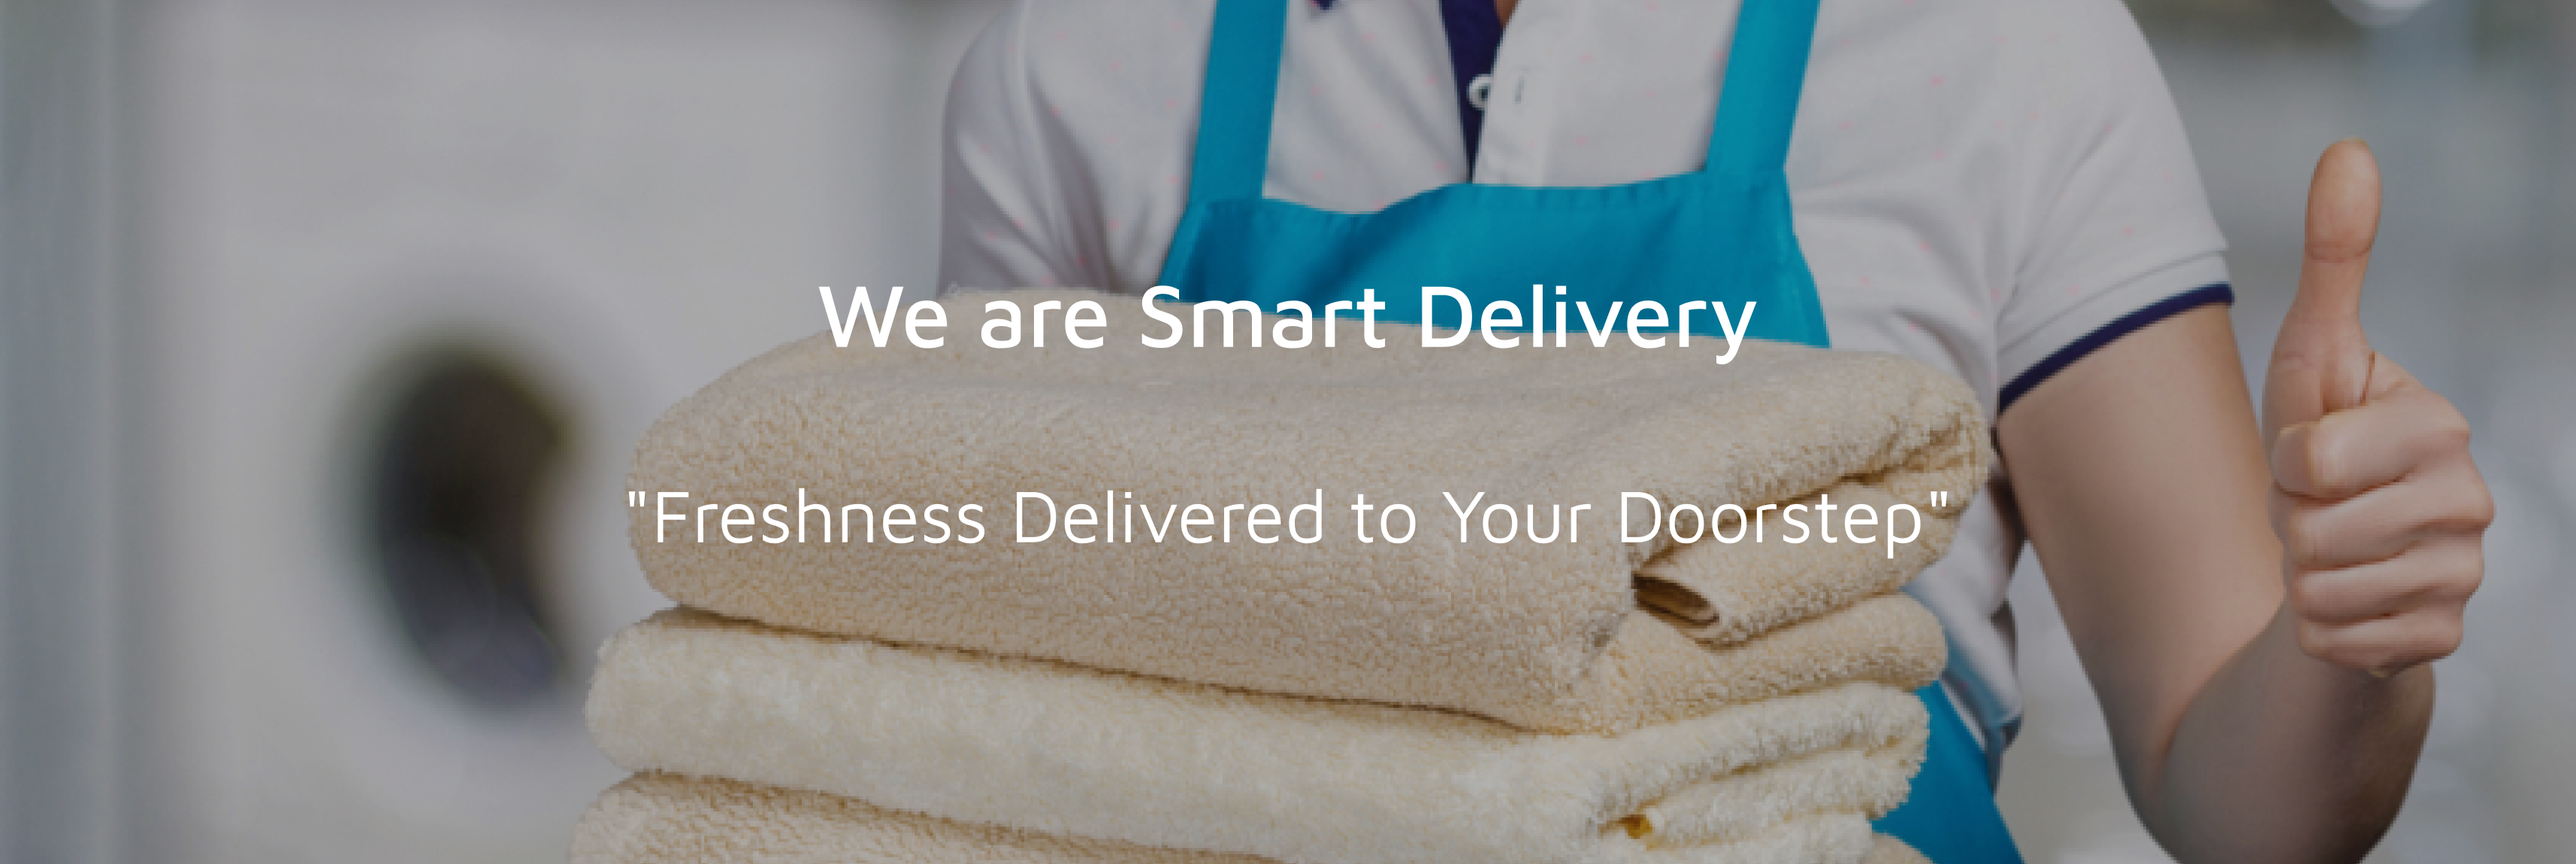
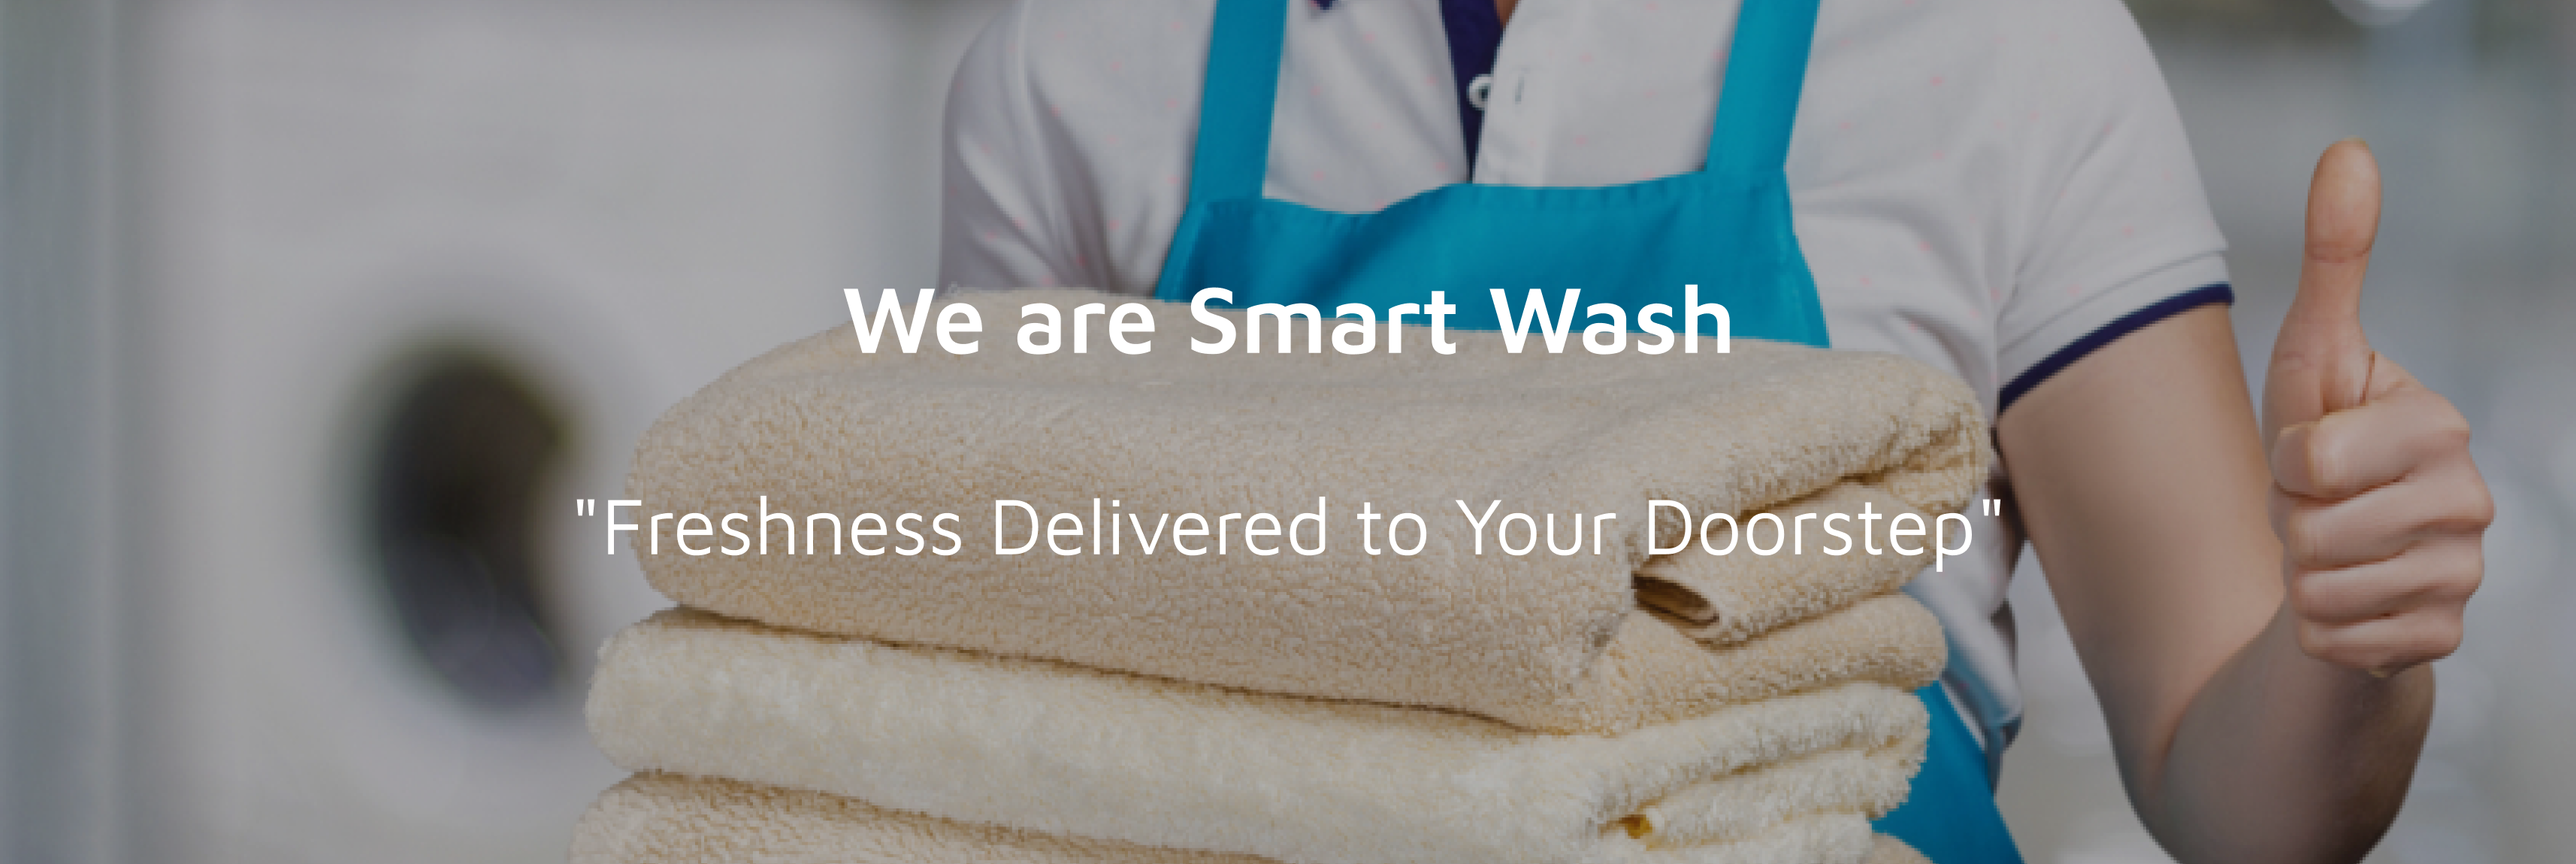
finished ProfileInfo

Changed region(s): [[0.3121, 0.3348, 0.6867, 0.4261], [0.2185, 0.5783, 0.7803, 0.6391]]

diff --git a/finals-project/src/Pages/ProfileInfo.jsx b/finals-project/src/Pages/ProfileInfo.jsx
@@ -1,0 +1,70 @@
+import './ProfileInfo.css'
+import Head from '../Images/user.png'
+import LG from '../Images/logout.png'
+import Plus from '../Images/plus.png'
+import Minus from '../Images/minus.png'
+
+export default function ProfileInfo(){
+
+    return(
+        <>
+        <div className = "PIBody">
+            <div className = "sidebar">
+                <img src ={Head} style={{height:'60px', marginLeft: '35%', marginTop: '20%'}}/>
+                <h2 style ={{color: 'white',marginLeft: '25%', fontSize: '20px', marginTop: '10px'}}>My Account</h2>
+                    <div className = "PIBLink" style ={{marginTop: '50px'}}>
+                        <ul>
+                        <li><a href = "#" >Profile Information </a></li>
+                        <li><a href = "#" >Order History</a></li>
+                        <li><a href = "#" >Order Tracking </a></li>
+                        <li><a href = "#" >Settings </a></li>
+                        </ul>
+                    </div>
+                <br/>
+                <br/>
+                <br/>
+                <br/>
+                <br/>
+                <br/>
+
+                <br/>
+                <a href = "#" className ="LG" style ={{textDecoration: 'none',color: 'white',fontSize:'20px',fontWeight: 'bold',marginLeft:'55px'}}>LOGOUT <img src = {LG} style = {{height: '20px',marginTop:'-3px'}}/> </a>
+            </div>
+            <div className = "mainB">
+                <div className ="mainB1" style={{ display: 'flex', gap: '98px',marginLeft: '65px', marginTop: '50px'}}>
+                <div class="mb-3" style={{width: '300px'}}>
+                    <label for="exampleFormControlInput1" class="form-label">Full Name</label>
+                    <input type="email" class="form-control" id="exampleFormControlInput1" placeholder="Name of User" style ={{border: '2px solid black'}}/>
+                </div>
+                <div class="mb-3" style={{width: '300px'}}>
+                    <label for="exampleFormControlInput1" class="form-label">Email</label>
+                    <input type="email" class="form-control" id="exampleFormControlInput1" placeholder="Email of User" style ={{border: '2px solid black'}}/>
+                </div>
+                </div>
+                <div className ="mainB2" style={{ display: 'flex', gap: '98px',marginLeft: '65px', marginTop: '50px'}}>
+                <div class="mb-3" style={{width: '300px'}}>
+                    <label for="exampleFormControlInput1" class="form-label">Contact Number</label>
+                    <input type="email" class="form-control" id="exampleFormControlInput1" placeholder="+63 123-4567-890" style ={{border: '2px solid black'}}/>
+                </div>
+                <div class="mb-3" style={{width: '300px'}}>
+                    <label for="exampleFormControlInput1" class="form-label">Date of Birth</label>
+                    <input type="email" class="form-control" id="exampleFormControlInput1" placeholder="DOB" style ={{border: '2px solid black'}}/>
+                </div>
+                </div>
+
+                <div className = "mainB3" style={{marginTop: '20px', marginLeft: '65px'}}>
+                    <h2 style= {{fontSize: '30px',fontWeight:'600'}}>Saved Addresses</h2>
+                    <div class="mb-3" style={{width: '700px'}}>
+                    <label for="exampleFormControlInput1" class="form-label">Default Address</label>
+                    <input type="email" class="form-control" id="exampleFormControlInput1" placeholder="Saved addresses" style ={{border: '2px solid black'}}/>
+                    </div>
+                    <div class="mb-3" style={{width: '700px'}}>
+                    <label for="exampleFormControlInput1" class="form-label">Add Another Address <button className="imageButton"><img src={Plus} style={{ height: '25px' }} alt="Plus Icon" /></button><button className="imageButton"><img src={Minus} style={{ height: '25px' }} alt="Minus Icon" /></button></label>
+                    <input type="email" class="form-control" id="exampleFormControlInput1" placeholder="Saved addresses" style ={{border: '2px solid black'}}/>
+                    </div>
+                </div>
+            </div>
+        </div>
+        </>
+    )
+}

diff --git a/finals-project/src/Pages/About.jsx b/finals-project/src/Pages/About.jsx
@@ -9,17 +9,18 @@ import './About.css'
 import AU2 from '../Images/About us 2.jpg'
 import AU4 from '../Images/About us 4.jpg'
 import AU5 from '../Images/About us 5.jpg'
- 
+import justine from '../Images/Justine.jpg'
+import francis from '../Images/aliser.jpg'
 
 export default function About(){
 
     return(
         <>
             <Navbar/>
-            <div className="first">
-                {/* <h1>We are Smart Delivery</h1>
+            <div className="firstA">
+                <h1>We are Smart Wash</h1>
                
-                <h2>"Freshness Delivered to Your Doorstep"</h2> */}
+                <h2>"Freshness Delivered to Your Doorstep"</h2>
             </div>
             <div className = "Second">
                 <AboutBody/>
@@ -48,11 +49,18 @@ export default function About(){
             <div className="fourth">
                 <div class="row featurette" style={{marginLeft:'50px'}}>
                     <div class="col-md-7 order-md-2">
-                        <h2 class="featurette-heading fw-normal lh-1" style ={{textAlign: 'left',color: 'black',fontWeight: 'bolder', fontSize: '50px', marginTop: '50px'}}>Who We Are?</h2>
+                        <h2 class="featurette-heading fw-normal lh-1" style ={{textAlign: 'left',color: 'black',fontWeight: 'bolder', fontSize: '50px', marginTop: '50px'}}>Who Are We?</h2>
                         <p class="lead" style = {{fontSize: '25px', textAlign: 'left', width:'90%'}}>At Smart Delivery, we take pride in being a group of enthusiastic students who have come together to redefine the laundry delivery experience. Our team comprises bright minds from various disciplines, united by a common goal – providing you with unparalleled laundry care.</p>
                     </div>
                     <div class="col-md-5 order-md-1">
-                        <img class="bd-placeholder-img bd-placeholder-img-lg featurette-image img-fluid mx-auto" src={AU2} alt="500x500 Image" style = {{marginTop: '75px', height: '500px',width:'1200px', marginRight: '100px'}}/>
+                        <div class="image-container" style ={{marginTop: '40px'}}>
+                            <img src={justine} style={{height: '250px'}} />
+                            <img src={francis} style={{height: '250px'}} />
+                        </div>
+                        <div class="image-container" style ={{marginTop: '30px'}}>
+                            <img src={justine} style={{height: '250px'}} />
+                            <img src={francis} style={{height: '250px'}} />
+                        </div>
                     </div>
                 </div>
             </div>

diff --git a/finals-project/src/Pages/ProfileInfo.css b/finals-project/src/Pages/ProfileInfo.css
@@ -1,0 +1,73 @@
+.PIBody {
+    display: flex;
+    height: 90vh;
+    width: 80%;
+    margin-left: 10%;
+    margin-top: 2%;
+    background-color: #CDC2AE;
+  }
+  .sidebar .LG {
+    text-decoration: none;
+  color: white;
+  font-size: 20px;
+  font-weight: bold;
+  margin-left: 55px;
+  margin-top: 600px;
+  }
+
+  .sidebar{
+    width: 20%;
+    background-color: #116A7B;
+    height: 100%;
+    position: inherit;
+  }
+  
+  /* Add this CSS to your stylesheet */
+.PIBLink ul {
+    list-style: none; /* Remove bullets */
+    padding: 0; /* Remove default padding */
+    color: white;
+    font-size: 18px;
+    font-weight: bold;
+    text-align: center;
+  }
+  
+  .PIBLink ul li a {
+    text-decoration: none; /* Remove underline from links */
+    color: inherit; /* Use default text color */
+  }
+  
+  /* Additional styling if needed */
+  .PIBLink ul li {
+    margin-bottom: 10px; /* Adjust spacing between list items */
+  }
+  
+  .mainB{
+    width: 80%;
+    height: 100%;
+  }
+
+  .mainB1 label{
+    color: black;
+    font-size: 20px;
+    font-weight: 600;
+  }
+
+  .mainB2 label{
+    color: black;
+    font-size: 20px;
+    font-weight: 600;
+  }
+  
+  .mainB3 label{
+    color: black;
+    font-size: 20px;
+  }
+
+  .imageButton {
+    border: none; /* Remove the button border */
+    background: none; /* Remove the button background */
+    padding: 0; /* Remove default padding */
+    margin-left: 15px;
+  }
+  

diff --git a/finals-project/src/Pages/OrdersHistory.jsx b/finals-project/src/Pages/OrdersHistory.jsx
@@ -1,0 +1,35 @@
+import './OrdersHistory.css'
+
+export default function OrdersHistory(){
+
+    return(
+        <>
+            <div className = "PIBody">
+            <div className = "sidebar">
+                <img src ={Head} style={{height:'60px', marginLeft: '35%', marginTop: '20%'}}/>
+                <h2 style ={{color: 'white',marginLeft: '25%', fontSize: '20px', marginTop: '10px'}}>My Account</h2>
+                    <div className = "PIBLink" style ={{marginTop: '50px'}}>
+                        <ul>
+                        <li><a href = "#" >Profile Information </a></li>
+                        <li><a href = "#" >Order History</a></li>
+                        <li><a href = "#" >Order Tracking </a></li>
+                        <li><a href = "#" >Settings </a></li>
+                        </ul>
+                    </div>
+                <br/>
+                <br/>
+                <br/>
+                <br/>
+                <br/>
+                <br/>
+
+                <br/>
+                <a href = "#" className ="LG" style ={{textDecoration: 'none',color: 'white',fontSize:'20px',fontWeight: 'bold',marginLeft:'55px'}}>LOGOUT <img src = {LG} style = {{height: '20px',marginTop:'-3px'}}/> </a>
+            </div>
+            <div className = "mainB">
+               
+            </div>
+        </div>
+        </>
+    )
+}

diff --git a/finals-project/src/Pages/Reviews.css b/finals-project/src/Pages/Reviews.css
@@ -5,9 +5,9 @@
     height: 400px;
     width: 100%;
     margin-top: 165px;
-    display: flex; /* Use display: flex; to create a flex container */
-    justify-content: center; /* Center content horizontally */
-    align-items: center; /* Center content vertically */
+    display: flex; 
+    justify-content: center;
+    align-items: center; 
 }
 
 .firstR h1{
@@ -83,12 +83,11 @@
 
 .carousel-control-prev-icon,
 .carousel-control-next-icon {
-  background-color: black; /* Change the background color of the icons */
-  /* You can also adjust other properties like color, size, etc., if needed */
+  background-color: black; 
 }
 
 .carousel-control-prev, .carousel-control-next {
-    background: none; /* Remove background */
-    border: none; /* Remove border */
-    padding: 0; /* Remove padding */
+    background: none; 
+    border: none; 
+    padding: 0; 
   }

diff --git a/finals-project/src/Pages/About.css b/finals-project/src/Pages/About.css
@@ -1,4 +1,4 @@
-.first{
+.firstA{
     background-image: url('../Images/About\ us\ 3.png');  
     background-size: cover; 
     background-repeat: no-repeat; 
@@ -10,8 +10,8 @@
     position: flex;
 }
 
-.first h1{
-    margin-left: 450px;
+.firstA h1{
+    margin-left: 475px;
     top: 90px;
     position: absolute;
     margin-top: 200px;
@@ -19,11 +19,11 @@
     
 }
 
-.first h2{
+.firstA h2{
     position: absolute;
     top: 230px;
     margin-left: 380px;
-    margin-top: 130px;
+    margin-top: 200px;
 }
 .Second{
     position:flex;
@@ -101,4 +101,12 @@
     text-align: center;
    padding-top: 20px;
    font-weight: 500;
+}
+
+.image-container {
+    display: flex; /* Use flexbox to arrange items in a row */
+}
+
+.image-container img {
+    margin-right: 10px; /* Optional: Add some space between the images */
 }

diff --git a/finals-project/src/App.js b/finals-project/src/App.js
@@ -9,12 +9,12 @@ import Reviews from './Pages/Reviews';
 import Login from './Pages/Login';
 import SignUp from './Pages/SignUp';
 import Footer from './Components/Footer';
+import Test from './Pages/ProfileInfo'
 
 export default function App() {
   return (
     <>
     <Router>
-     
       <Routes>
         <Route path="/" element={<Home />} /> 
          <Route path="/services" element={<Services />} />
@@ -25,6 +25,7 @@ export default function App() {
         <Route path="/signup" element={<SignUp/>} />
       </Routes>
     </Router>
+    {/* <Test/> */}
     </>
   );
 }

diff --git a/finals-project/src/Pages/Home.jsx b/finals-project/src/Pages/Home.jsx
@@ -20,7 +20,7 @@ export default function Home() {
     <>
       <Navbar/>
       <div className='firstH'>
-        <div id="carouselExampleControls" className="carousel slide" data-bs-ride="carousel" style={{zIndex: '1'}}>
+        <div id="carouselExampleControls" className="carousel slide" data-bs-ride="carousel" style={{zIndex: '1'}} data-bs-interval="3000">
           <div className="carousel-inner">
             <div className="carousel-item active">
               <img src={home1} className="d-block w-100" alt="Slide 1" style={{zIndex: '1'}}/>

diff --git a/finals-project/src/Components/Footer.jsx b/finals-project/src/Components/Footer.jsx
@@ -39,7 +39,7 @@ function Footer () {
                 <ul>
                     <li><Link to="/services">&gt; Services</Link></li>
                     <li><Link to="/about">&gt; About Us</Link></li>
-                    <li><Link to="/contact us">&gt; Contact Us</Link></li>
+                    <li><Link to="/contact-us">&gt; Contact Us</Link></li>
                     <li><Link to="/pricing">&gt; Pricing</Link></li>
                     <li><Link to="/terms-conditions">&gt; Terms & Conditions</Link></li>
                 </ul>

diff --git a/finals-project/src/Pages/Login.jsx b/finals-project/src/Pages/Login.jsx
@@ -38,7 +38,6 @@ function Login() {
         <>
         <link href="https://cdnjs.cloudflare.com/ajax/libs/font-awesome/5.15.4/css/all.min.css" rel="stylesheet"></link>
         
-           
         <div className="login-background">
             <div className ="backBtn" style ={{marginTop: '-550px'}}>
             <a href="#" onClick={handleGoBack} style={{textDecoration: 'none',color: 'black',fontSize: '30px'}}><i class="fas fa-arrow-left"></i> Back</a> 
